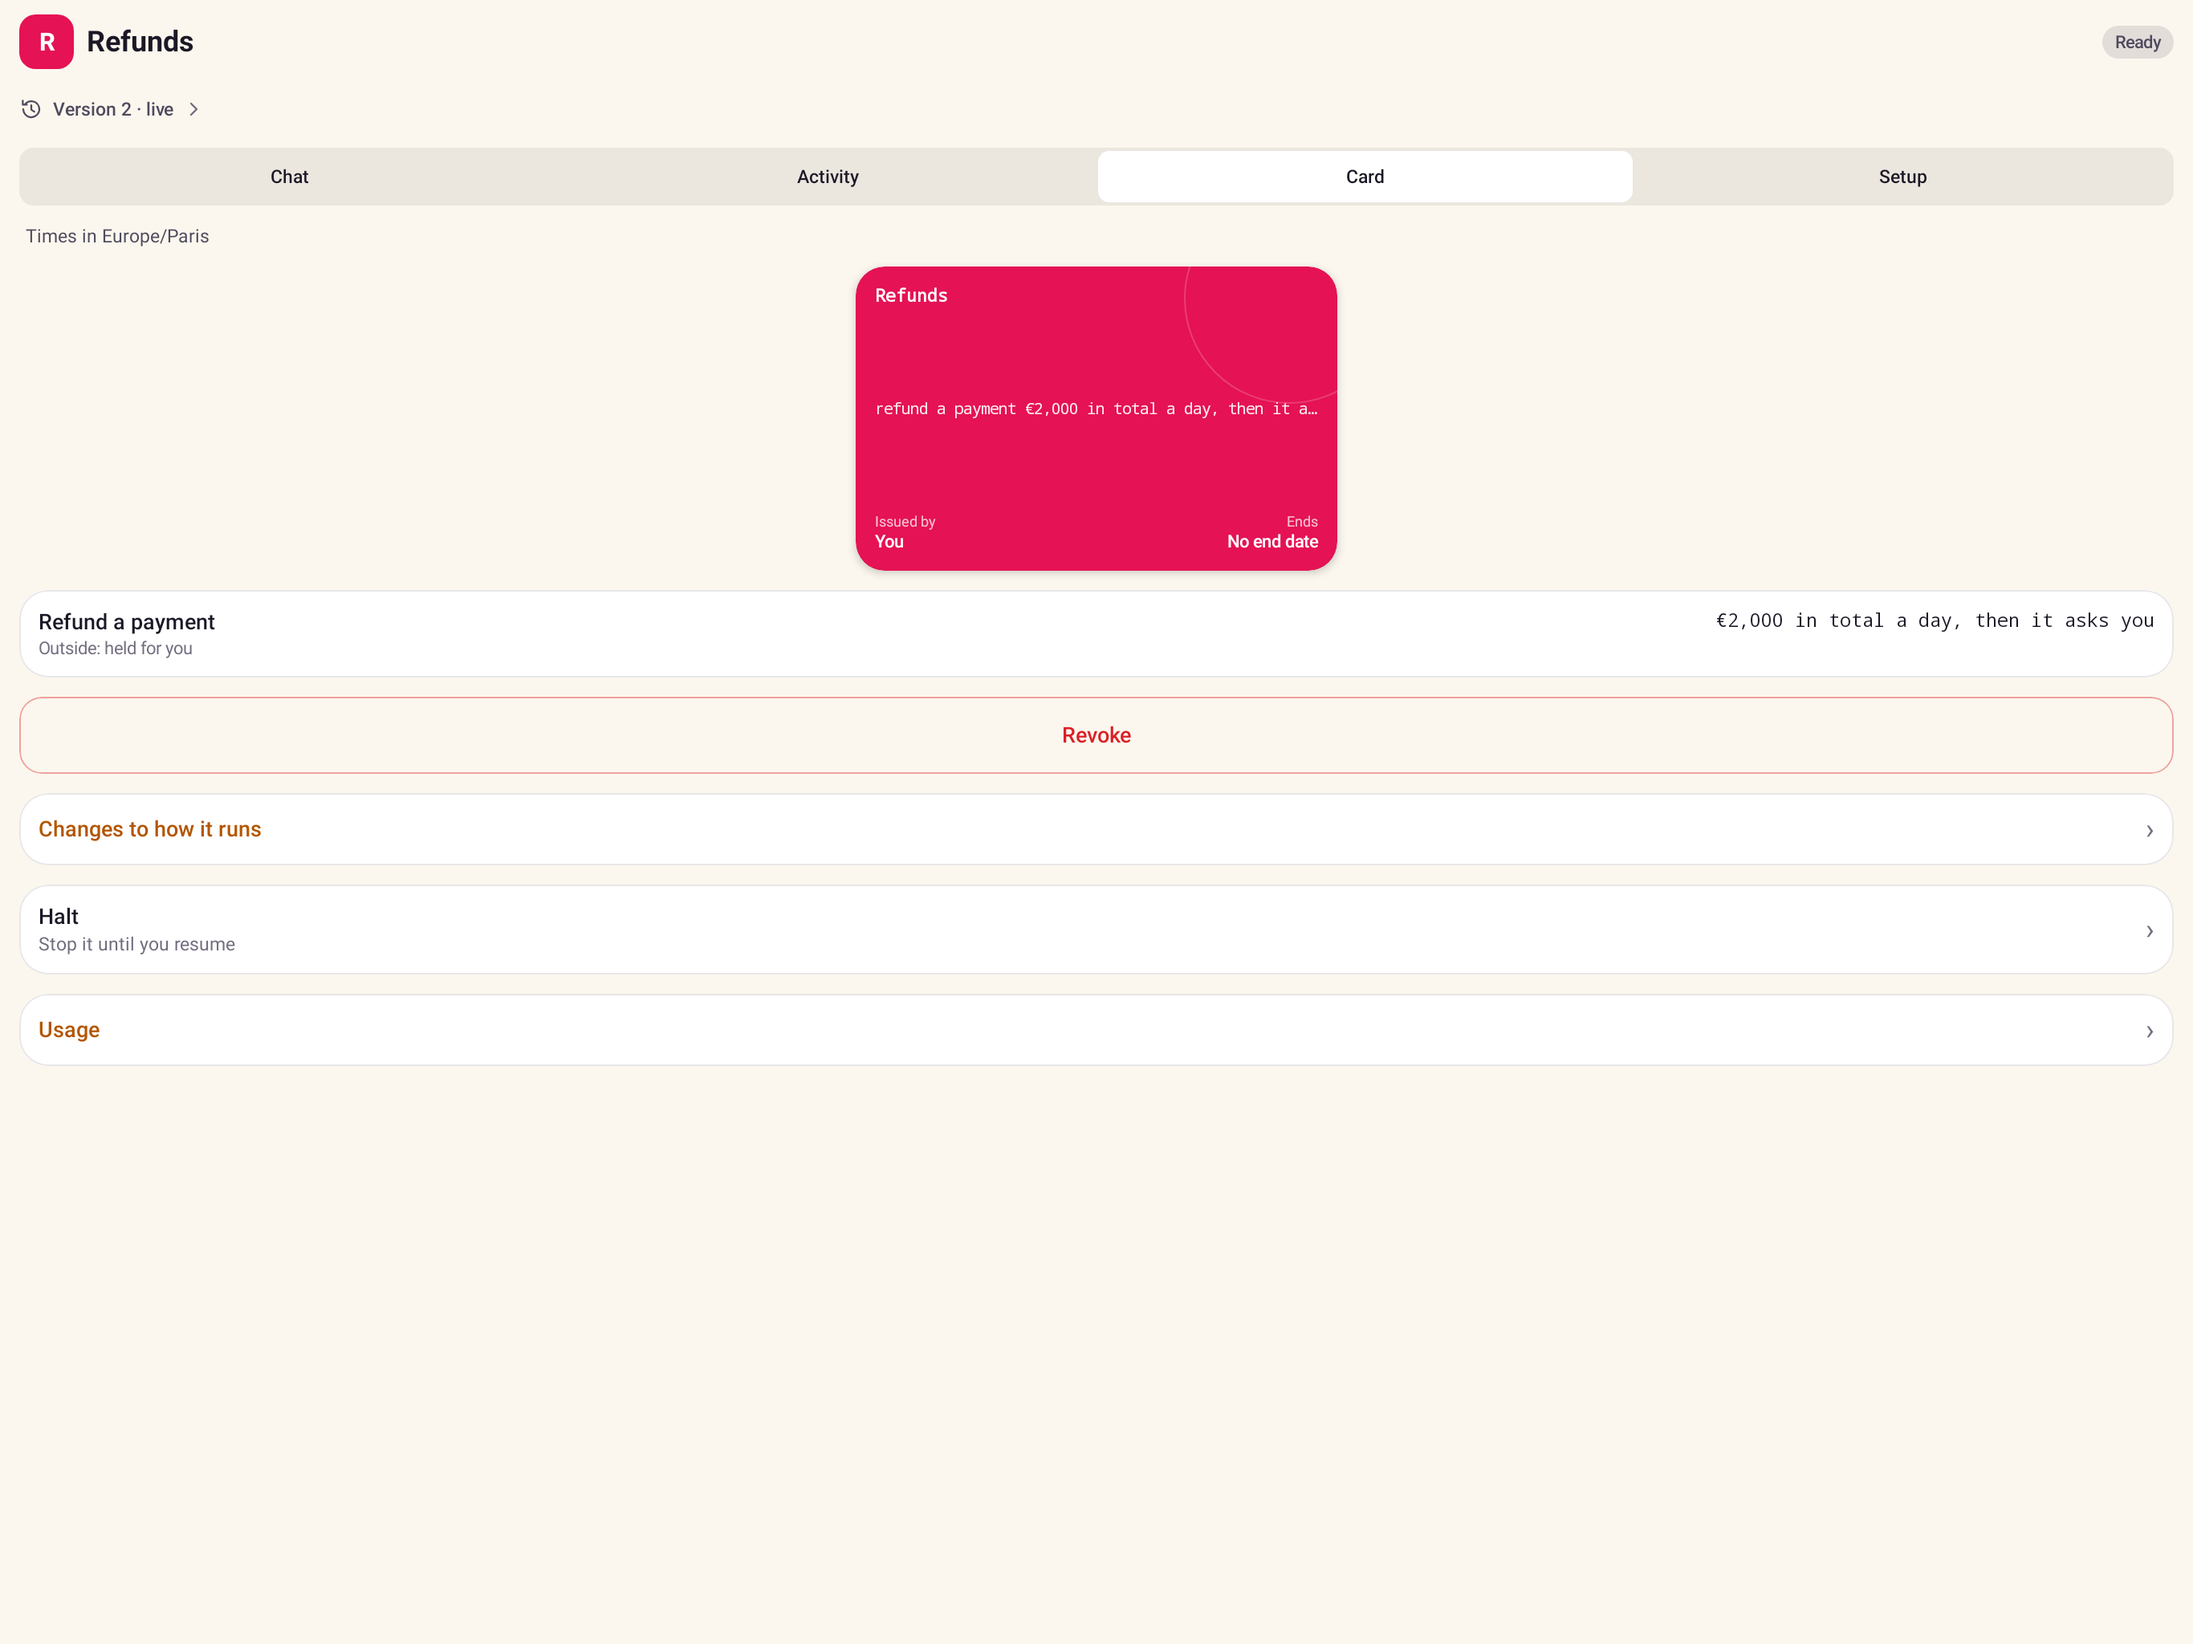
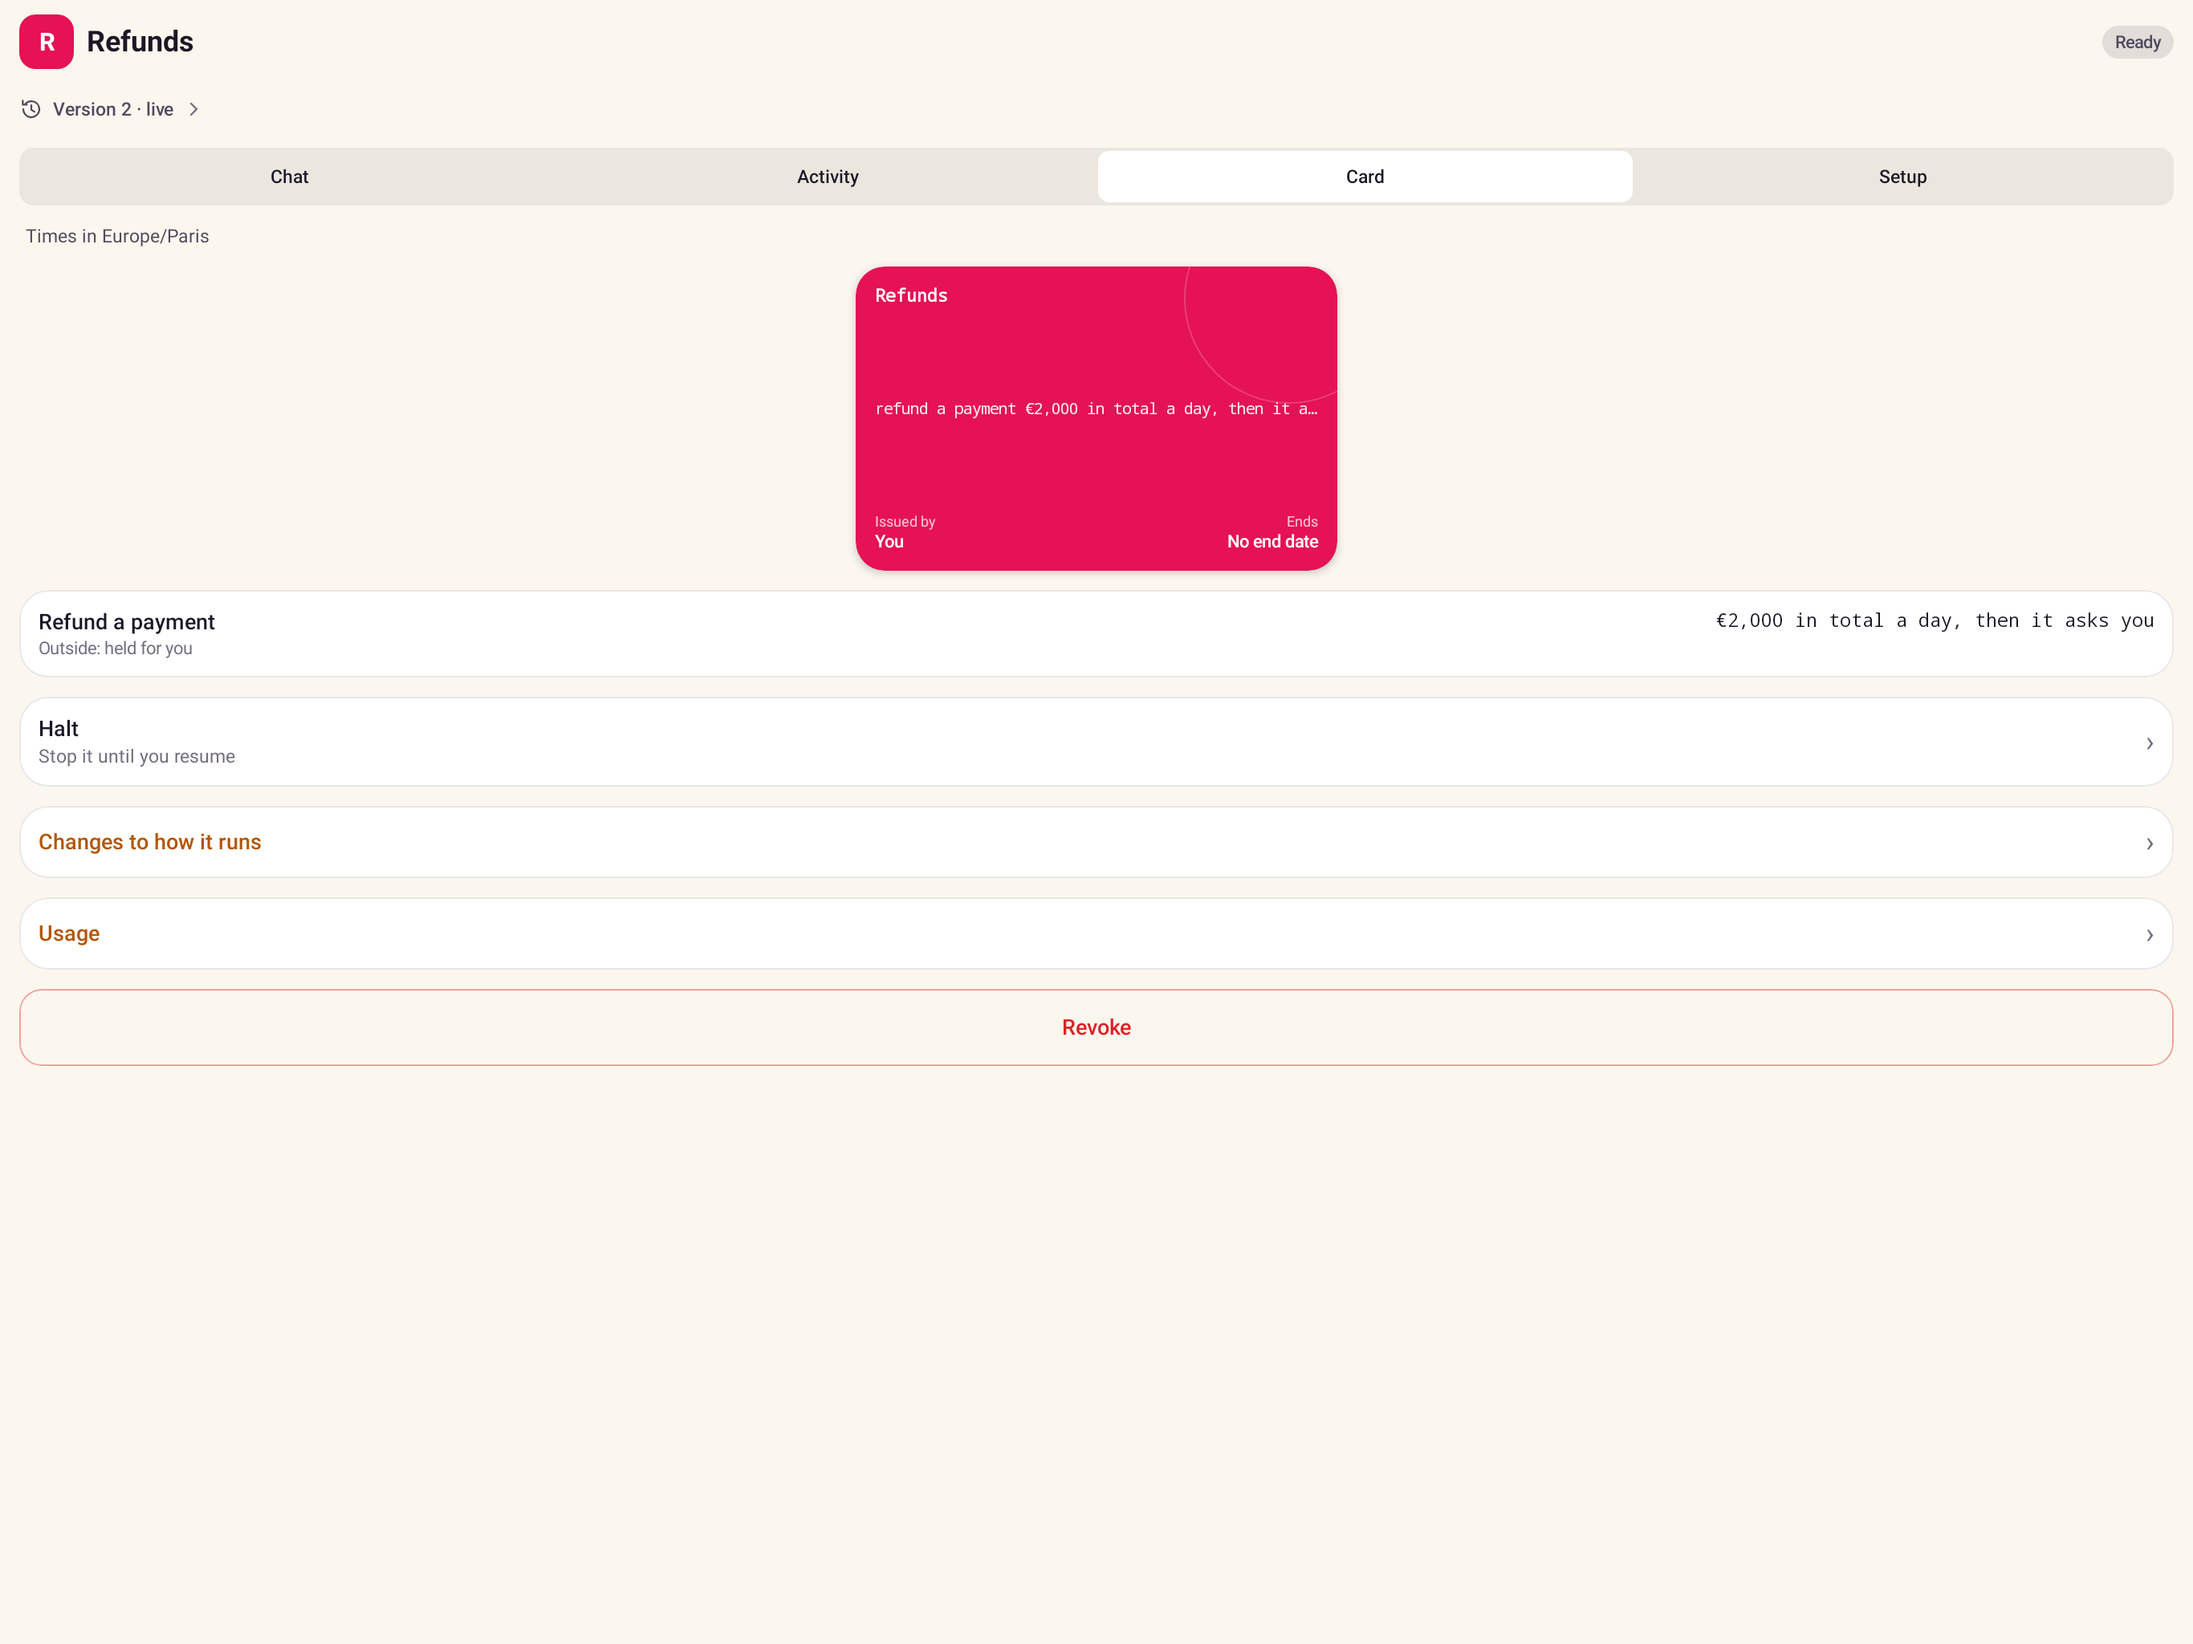
Android: Revoke is the Card tab's last row, as the iPad's

Changed region(s): [[0.0, 0.5, 0.1245, 0.5312], [0.0, 0.5625, 0.0622, 0.5938], [0.0, 0.4375, 0.0622, 0.4688]]

diff --git a/android/app/src/main/kotlin/bot/tafs/app/views/TafDetailView.kt b/android/app/src/main/kotlin/bot/tafs/app/views/TafDetailView.kt
@@ -304,15 +304,17 @@ fun TafDetailView(
             // The clock its limits' days and its times are in, in tafs cloud's words: above the Card, as the iPad's.
             taf.timeZoneWords?.let { Text(it, style = scaled(13, color = Theme.soft), modifier = Modifier.padding(horizontal = 4.dp)) }
             taf.scheduleTimeZoneWords?.let { Text(it, style = scaled(13, color = Theme.amberText), modifier = Modifier.padding(horizontal = 4.dp)) }
-            CardTab(taf, state.issuer(taf), actions, frontCard, { frontCard = it }, manages = managesHere, onRevoke = { confirmRevoke = true })
+            CardTab(taf, state.issuer(taf), actions, frontCard, { frontCard = it }, manages = managesHere)
             // Halting is a job of its own: its row opens its screen. Its usage is the account's Usage, with this taf's count.
             // Only what this person manages, as KIFF says: a Viewer sees no Halt, refused only once tapped.
+            // In the iPad's order: Halt, Changes to how it runs, Usage, then Revoke last.
+            if (state.canHalt(taf.id) && state.manages(taf.id) && taf.state != TafState.revoked) HaltRow(taf.id, state.haltOf(taf.id), { onHalt(taf.id) })
             if (state.canHalt(taf.id) && state.manages(taf.id)) {
               val version = state.tafSetups[taf.id]?.versions
               VersionsRow({ onVersions(taf.id) }, title = version?.title ?: Words.Version.changesRow, summary = version?.summary)
             }
-            if (state.canHalt(taf.id) && state.manages(taf.id) && taf.state != TafState.revoked) HaltRow(taf.id, state.haltOf(taf.id), { onHalt(taf.id) })
             if (state.canHalt(taf.id)) UsageRow { onUsage(taf.id) }
+            RevokeRow(taf, managesHere, onRevoke = { confirmRevoke = true })
           }
           Section.Setup -> {
             // How it runs; removing it for good (its Cards revoked, its schedule, chats, run reports, memory and key deleted, its
@@ -449,7 +451,7 @@ private fun Activity(taf: Taf, state: AppState, actions: TafActions) {
 internal const val REVOKE_NEEDS_APPROVER = "taf.revoke_needs_approver"
 
 @Composable
-private fun CardTab(taf: Taf, issuer: String, actions: TafActions, front: String?, onFront: (String) -> Unit, manages: Boolean, onRevoke: () -> Unit) {
+private fun CardTab(taf: Taf, issuer: String, actions: TafActions, front: String?, onFront: (String) -> Unit, manages: Boolean) {
   val cards = taf.shownCards
   val shown = cards.firstOrNull { it.id == front } ?: cards.firstOrNull()
   Column(Modifier.fillMaxWidth(), horizontalAlignment = Alignment.CenterHorizontally) {
@@ -474,7 +476,14 @@ private fun CardTab(taf: Taf, issuer: String, actions: TafActions, front: String
       )
     }
   }
-  // Revoke: in the sample its own; signed in, KIFF's, for whoever manages it. Pausing is in Setup.
+}
+
+/**
+ * Revoke, the Card tab's last row, as the iPad's (under Halt, Changes to how it runs and Usage): in the sample its own; signed in,
+ * KIFF's, for whoever manages it. Pausing is in Setup.
+ */
+@Composable
+private fun RevokeRow(taf: Taf, manages: Boolean, onRevoke: () -> Unit) {
   if (taf.state != TafState.revoked && (taf.cloudId == null || manages)) {
     if (taf.cloudId != null && LocalViewOnly.current) {
       // A view-only session (KIFF's approval_mode "view") isn't offered Revoke, on every device alike: the line every app

diff --git a/android/app/src/test/kotlin/bot/tafs/app/TafHeadTest.kt b/android/app/src/test/kotlin/bot/tafs/app/TafHeadTest.kt
@@ -7,6 +7,7 @@ import androidx.compose.ui.test.assertIsSelected
 import androidx.compose.ui.test.hasText
 import androidx.compose.ui.test.junit4.createComposeRule
 import androidx.compose.ui.test.performClick
+import androidx.compose.ui.test.performScrollTo
 import androidx.test.core.app.ApplicationProvider
 import bot.tafs.app.app.AppState
 import bot.tafs.app.app.Mode
@@ -150,5 +151,17 @@ class TafHeadTest {
     compose.onNode(androidx.compose.ui.test.hasContentDescription(Words.Coach.conversations)).assertIsDisplayed()
     compose.onNode(androidx.compose.ui.test.hasContentDescription(Words.Common.back)).performClick()
     assertEquals(1, closed)
+  }
+
+  /** The Card tab ends with Revoke, as the iPad's (V38): below Halt and Usage, never between the Card and them. */
+  @Test fun revokeIsTheCardTabsLastRow() {
+    show()
+    compose.onNode(hasText("Card") and androidx.compose.ui.test.hasClickAction()).performClick()
+    compose.waitForIdle()
+    fun top(words: String) = compose.onNode(hasText(words) and androidx.compose.ui.test.hasClickAction(), useUnmergedTree = false)
+      .performScrollTo().fetchSemanticsNode().boundsInRoot.top
+    val halt = compose.onAllNodes(hasText(Words.Taf.Halt.title, substring = true)).fetchSemanticsNodes().first().boundsInRoot.top
+    val revoke = top(Words.Taf.revoke)
+    assertTrue("Revoke at $revoke is above Halt at $halt", revoke > halt)
   }
 }

diff --git a/docs/android-app.md b/docs/android-app.md
@@ -736,8 +736,8 @@ answered:
   its last run, then its Record by day: All, Done, Held, Refused (`ActivityRecord`). Signed in, tafs
   cloud's filters are bordered pills as on the iPad, amber for the one chosen and soft for the rest,
   and each group's title is small and quiet (`ActivityFilterPill`).
-- **Card:** only what's on its Card: the clock its times are in, above it, then the Card, its limits and how they're counted, its usage,
-  Halt and Revoke. A view-only session (`approvalViewOnly`) gets "To revoke this Card, use a device
+- **Card:** only what's on its Card: the clock its times are in, above it, then the Card, its limits and how they're counted, then, in the
+  iPad's order, Halt, Changes to how it runs, Usage and, last, Revoke. A view-only session (`approvalViewOnly`) gets "To revoke this Card, use a device
   that can approve." in Revoke's place ([approvals.md](approvals.md)); the sample keeps its own Revoke.
 
 Who it's shared with (`PeopleWords.sharedWith`) leaves out the person reading: the one KIFF marks

diff --git a/changes/android-card-revoke-last.md b/changes/android-card-revoke-last.md
@@ -1,0 +1,1 @@
+- **Android: Revoke is the Card tab's last row,** after Halt, Changes to how it runs and Usage, in the iPad's order ([android-app.md](docs/android-app.md)).
